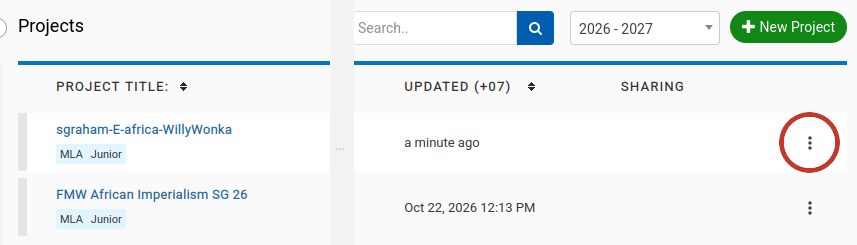
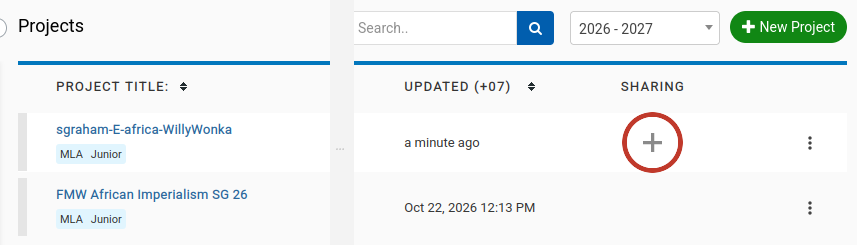
fmwafrica: share via the + under Sharing, not the three dots

Changed region(s): [[0.7281, 0.4571, 0.8191, 0.7143], [0.9102, 0.4571, 0.9708, 0.7143], [0.9708, 0.5143, 1.0, 0.6571]]

diff --git a/fmwafrica/index.html b/fmwafrica/index.html
@@ -113,8 +113,8 @@
       <p class="small">This is what it looks like if your name was Willy Wonka, in Block E.</p>
     </li>
     <li>
-      <p>Back on your project list, click the <b>three dots</b> at the end of your project's row.</p>
-      <img src="img/nt3-share-menu.png" alt="NoodleTools project list with the three-dot menu at the end of the project row circled." width="857" height="245">
+      <p>Back on your project list, hover over your project's row under <b>Sharing</b>. A <b>+</b> will appear. Click it.</p>
+      <img src="img/nt3-share-menu.png" alt="NoodleTools project list with a grey plus circled in the Sharing column of the project row." width="857" height="245">
     </li>
     <li>
       <p>Under <b>Share with a Teacher's Inbox</b>, click <b>Share</b> and type <b>Africa</b>. Your teacher's inbox should come up. <b>Check the block</b> is yours, pick it, then click <b>Done</b>.</p>

diff --git a/fmwafrica/CLAUDE.md b/fmwafrica/CLAUDE.md
@@ -29,6 +29,6 @@ Congo images doc). It is a companion for the task, NOT a store of everything abo
 - Exact submission instructions (Submit view says "coming"). Currently: printed poster, bibliography, OPCVLs.
 - NoodleTools step: teachers sgraham (Mr Graham), tredfern (Mr Redfern), dniedringhaus (Mr Niedringhaus); blocks A to H.
   Title = <teacher>-<block>-africa-FirstLast. Citation: MLA, Junior. Students type "Africa" in Share to find their teacher's inbox.
-  Screenshots img/nt1..nt4 (nt3 cropped from Sam's full-browser capture to hide tabs and email).
+  Screenshots img/nt1..nt4 (nt3: grey + drawn and circled under Sharing, where it appears on hover; cropped from Sam's full-browser capture to hide tabs and email).
 - NotebookLM links removed at Sam's request; don't add them back.
 - AI thesis feedback: Sam said not yet.
